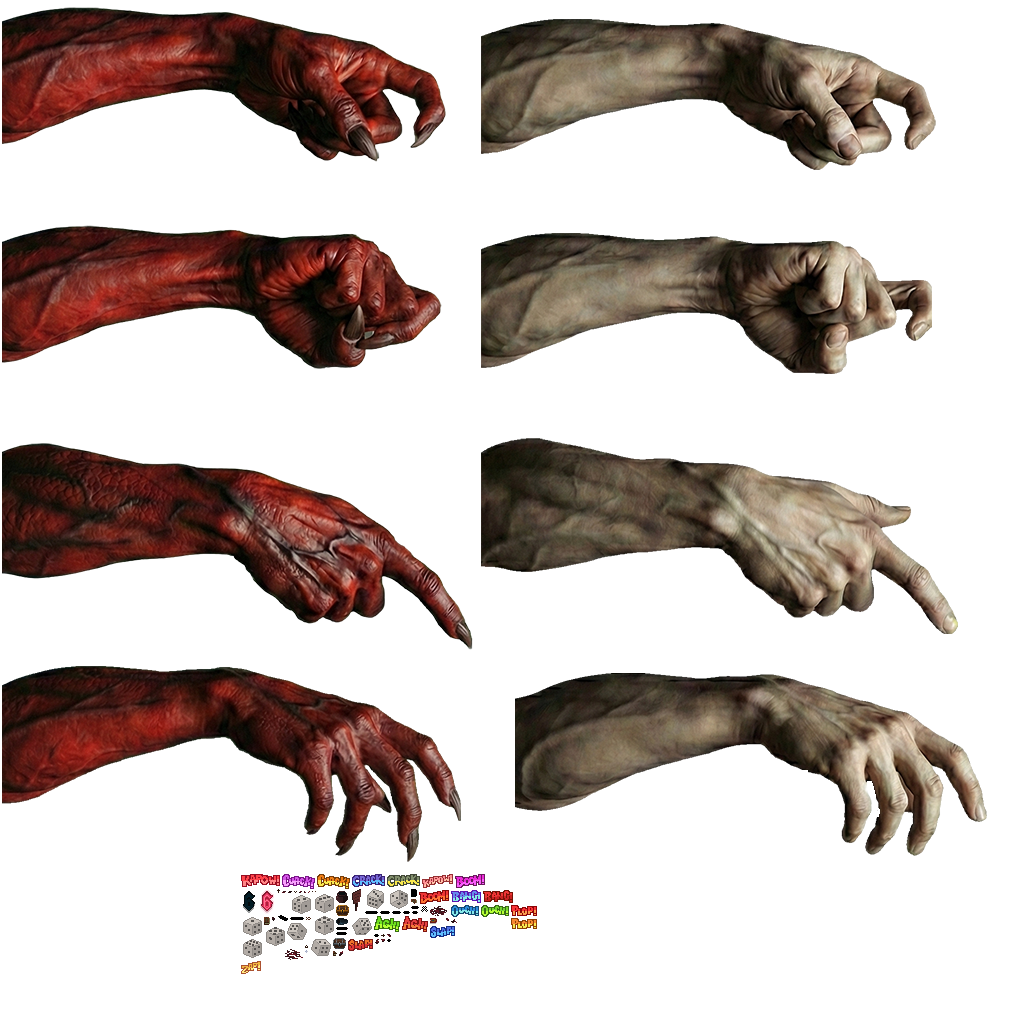
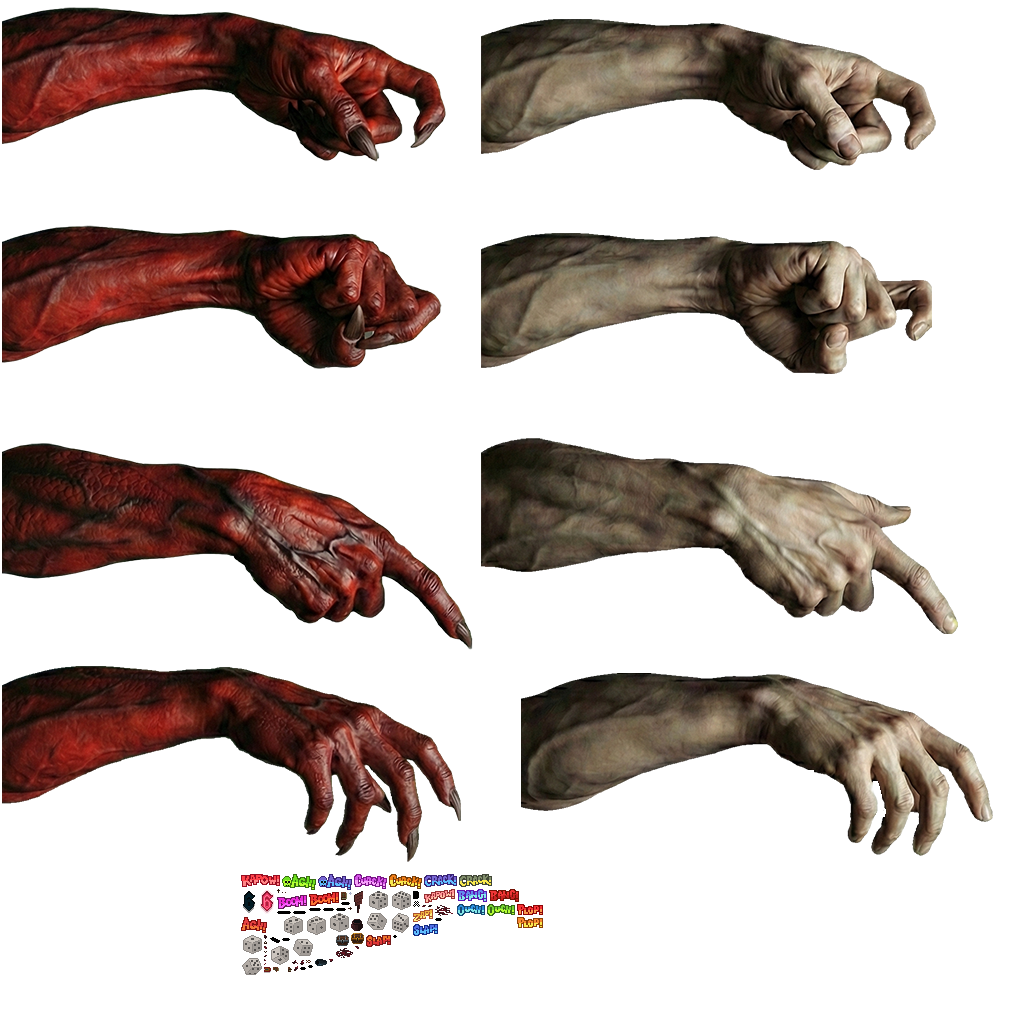
Added skull to comic texts linked to effect conditions.

Changed region(s): [[0.6875, 0.6562, 0.9688, 0.8438], [0.2188, 0.8438, 0.5312, 0.9688], [0.5, 0.6562, 0.625, 0.8125]]

diff --git a/Projects/ScaryCastle/Atlases/UIAtlas.cs b/Projects/ScaryCastle/Atlases/UIAtlas.cs
@@ -17,7 +17,6 @@ namespace ScaryCastle
             Coin = this[nameof(Coin)];
             ContextMenuOptionSelector = this[nameof(ContextMenuOptionSelector)];
             CreditsBar = this[nameof(CreditsBar)];
-            CursedIcon = this[nameof(CursedIcon)];
             DialogArrowLarge = this[nameof(DialogArrowLarge)];
             DialogOptionBullet = this[nameof(DialogOptionBullet)];
             DiscardItemIcon = this[nameof(DiscardItemIcon)];
@@ -36,7 +35,6 @@ namespace ScaryCastle
             PickupShadow = this[nameof(PickupShadow)];
             Pixel = this[nameof(Pixel)];
             PointingHand = this[nameof(PointingHand)];
-            PoisonedIcon = this[nameof(PoisonedIcon)];
             PopupContainer = this[nameof(PopupContainer)];
             PopupContainerShadow = this[nameof(PopupContainerShadow)];
             PurpleHearts = CreateReadOnlyCollection(nameof(PurpleHearts), 1, 4);
@@ -64,9 +62,6 @@ namespace ScaryCastle
 
         // CreditsBar
         public AtlasImage CreditsBar { get; }
-
-        // CursedIcon
-        public AtlasImage CursedIcon { get; }
 
         // DialogArrowLarge
         public AtlasImage DialogArrowLarge { get; }
@@ -110,9 +105,6 @@ namespace ScaryCastle
         // LiftIcon
         public AtlasImage LiftIcon { get; }
 
-        // RedHearts
-        public ReadOnlyCollection<AtlasImage> RedHearts { get; }
-
         // MessageContainer
         public AtlasImage MessageContainer { get; }
 
@@ -125,9 +117,6 @@ namespace ScaryCastle
         // PointingHand
         public AtlasImage PointingHand { get; }
 
-        // PoisonedIcon
-        public AtlasImage PoisonedIcon { get; }
-
         // PopupContainer
         public AtlasImage PopupContainer { get; }
 
@@ -136,6 +125,9 @@ namespace ScaryCastle
 
         // PurpleHearts
         public ReadOnlyCollection<AtlasImage> PurpleHearts { get; }
+
+        // RedHearts
+        public ReadOnlyCollection<AtlasImage> RedHearts { get; }
 
         // Sack
         public AtlasImage Sack { get; }
